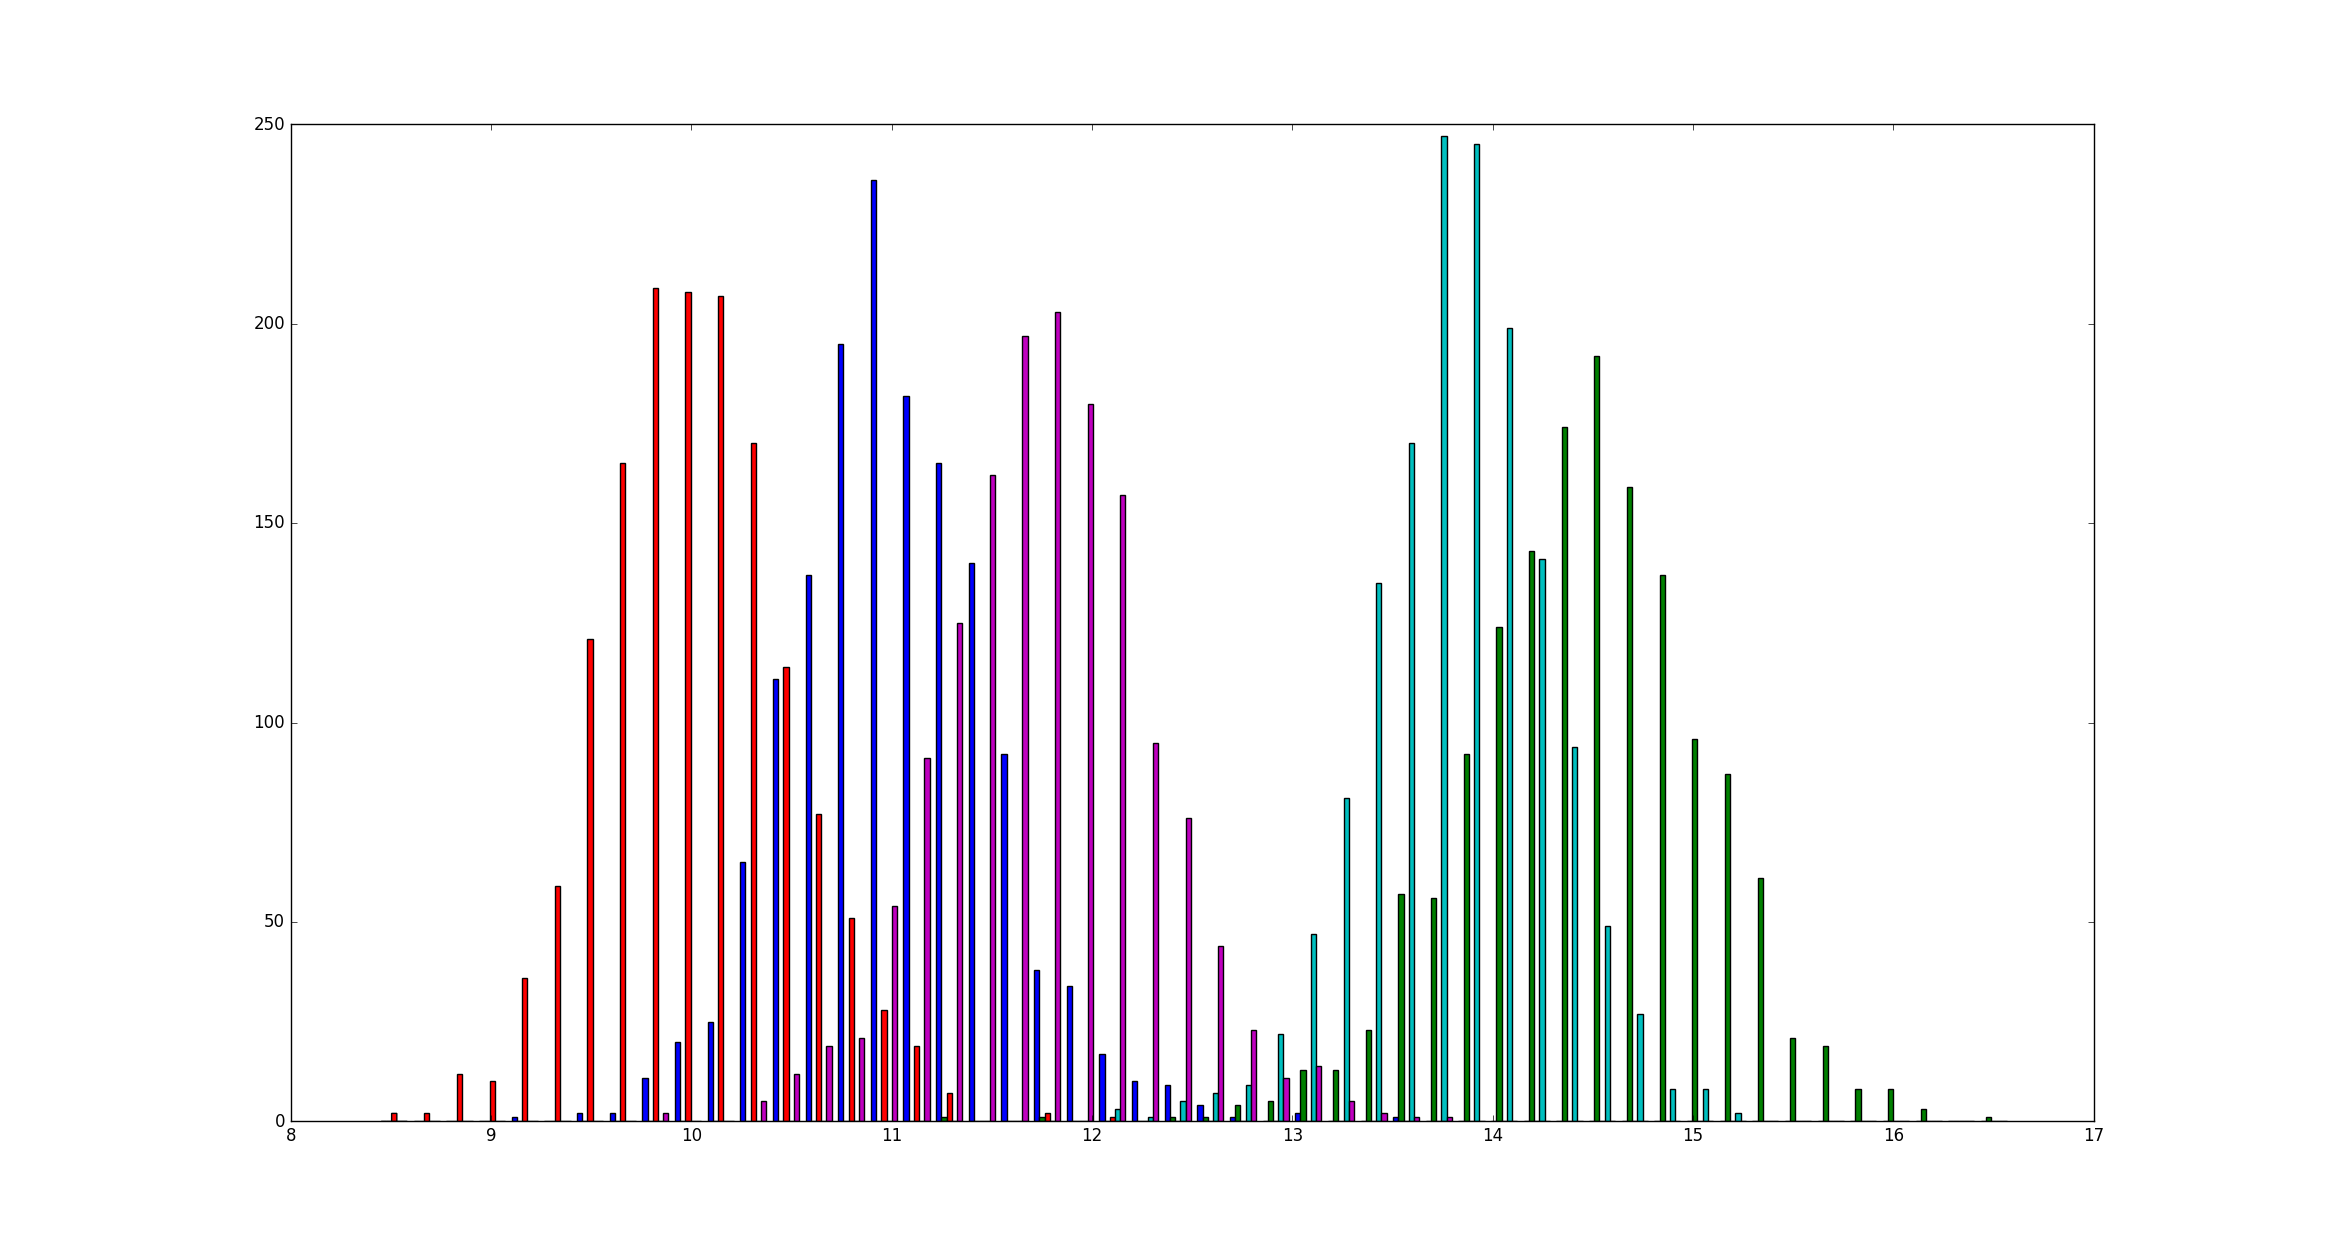
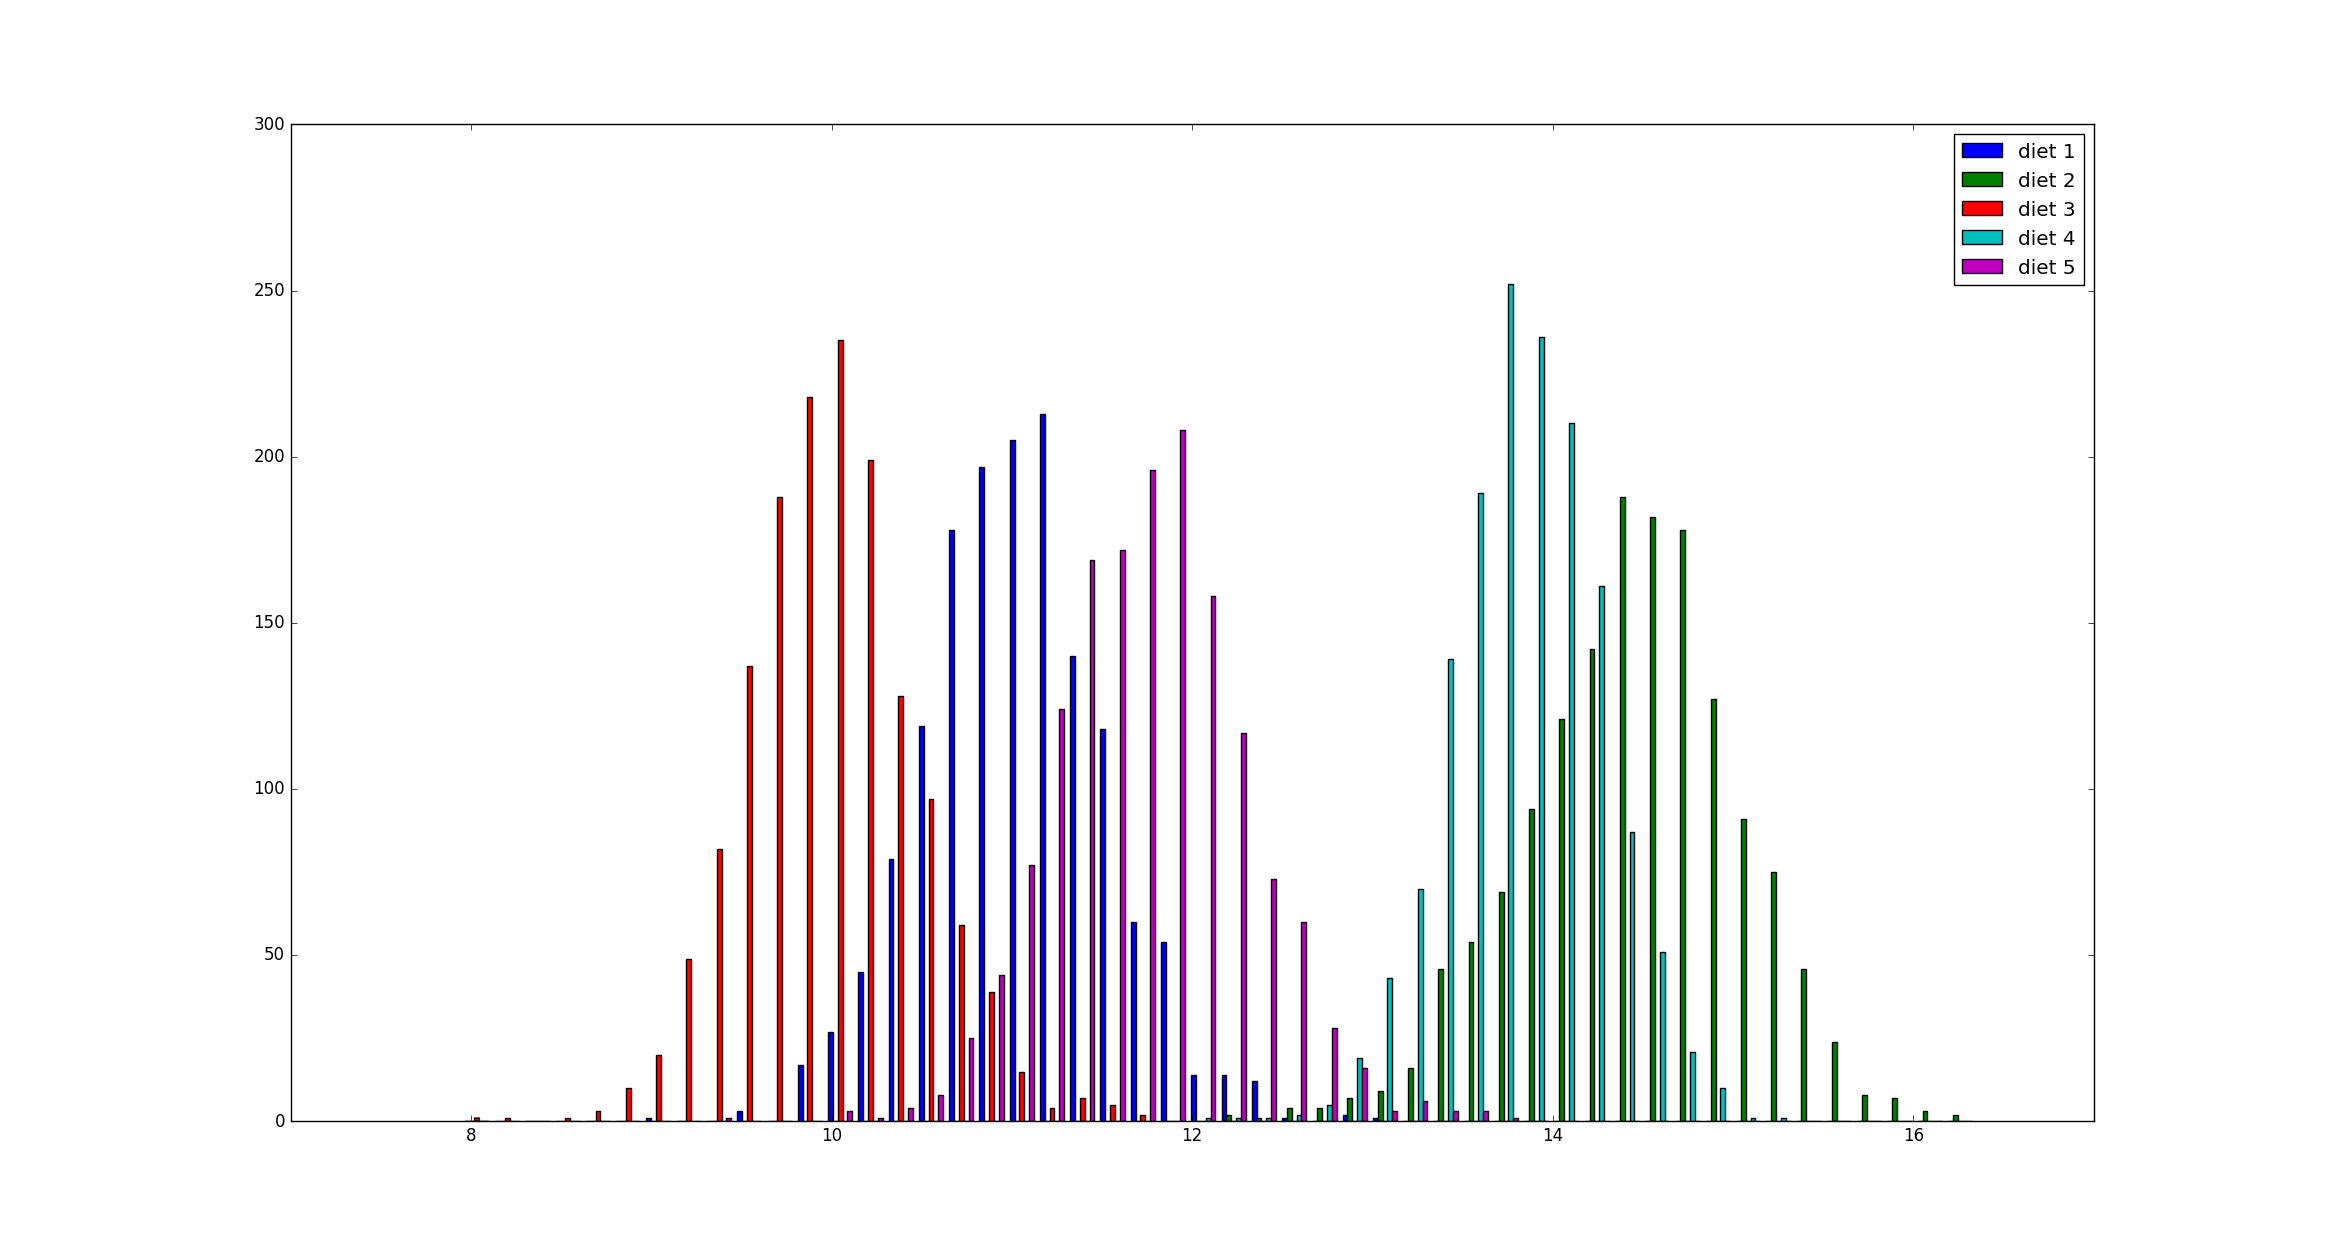
finishd q1

Changed region(s): [[0.1857, 0.122, 0.8358, 0.9149], [0.8358, 0.0915, 0.8977, 0.244]]

diff --git a/hw3/q1.py b/hw3/q1.py
@@ -30,6 +30,7 @@ def get_posterior_gibbs_sampler(X):
 	beta = 2*randn() + 12
 	tau2 = invgamma_rvs(6, 0.05)
 	sigma2_i = invgamma_rvs(13.1, 0.0083)
+	# Posteriors, each column represents one diet
 	theta_ij = zeros((2000,5))
 	theta_ij[0] = sqrt(tau2)*randn(5) + beta
 	# Generating loop
@@ -45,17 +46,41 @@ def get_posterior_gibbs_sampler(X):
 				for i in range(5)])
 		theta_ij[j] = theta_i
 	# Discard the first 500 to minimize the influence of the intial guess
-	return theta_ij[500:]
+	theta_ij = theta_ij[500:]
+	# hist(posteriors, bins=50, label=["diet %d"%(i) for i in range(1,6)])
+	# legend()
+	# show()
+	return theta_ij
 
 def main():
+	set_printoptions(precision=3)
 	X = [array([12.7,6.6,14.7,12.2,4.4,7.8,13.8,13.7,11.1,9.1,14.0]),
 		array([17.1,11.9,12.7,16.8,15.0,14.6,13.7,16.4]),
 		array([5.2,4.5,10.5,15.0,5.0,14.9,7.6,8.3,10.8,14.6,15.1,7.0,9.3]),
 		array([14.3,16.2,10.0,13.1,16.9,11.2,10.1,18.3,13.5,15.0,15.1,14.8,15.7,13.2,12.2,13.2]),
 		array([10.5,7.5,4.7,12.5,13.1,13.5,12.2,16.1,9.0,17.9])]
 	posteriors = get_posterior_gibbs_sampler(X)
-	hist(posteriors, bins=50)
-	show()
+	# Q1a
+	# Find index of max theta for every row
+	max_indices = argmax(posteriors, axis=1)
+	indices, counts = unique(max_indices, return_counts=True)
+	epl, P = ones(5), zeros(5)
+	epl[indices] = 1 - 1.0 * counts / sum(counts)
+	P[indices] = 1.0 * counts / sum(counts)
+	print "EPL:", epl
+	print "Posterior P:", P
+	print "Bayes selected diet:", argmin(epl)+1
+	# Q1b
+	P_b = zeros(4)
+	for i, b in enumerate([0,2,4,6]):
+		P_b[i] = sum(posteriors[:,1] >= posteriors[:,2] + b) * 1.0 / posteriors.shape[0]
+	print "P_b:", P_b
+	# Q1c
+	P_2 = sum(posteriors[:,1] >= 14) / posteriors.shape[0]
+	temp = posteriors[:,1][posteriors[:,2] <= 10] # P(theta2 | theta3 <= 10)
+	P_23 = sum(temp >= 14) * 1.0 / temp.shape[0]
+	print "P(theta2 >= 14 | theta3 <= 10):", P_23
+	print "P(theta2 >= 14):", P_2
 
 if __name__ == '__main__':
 	main()
